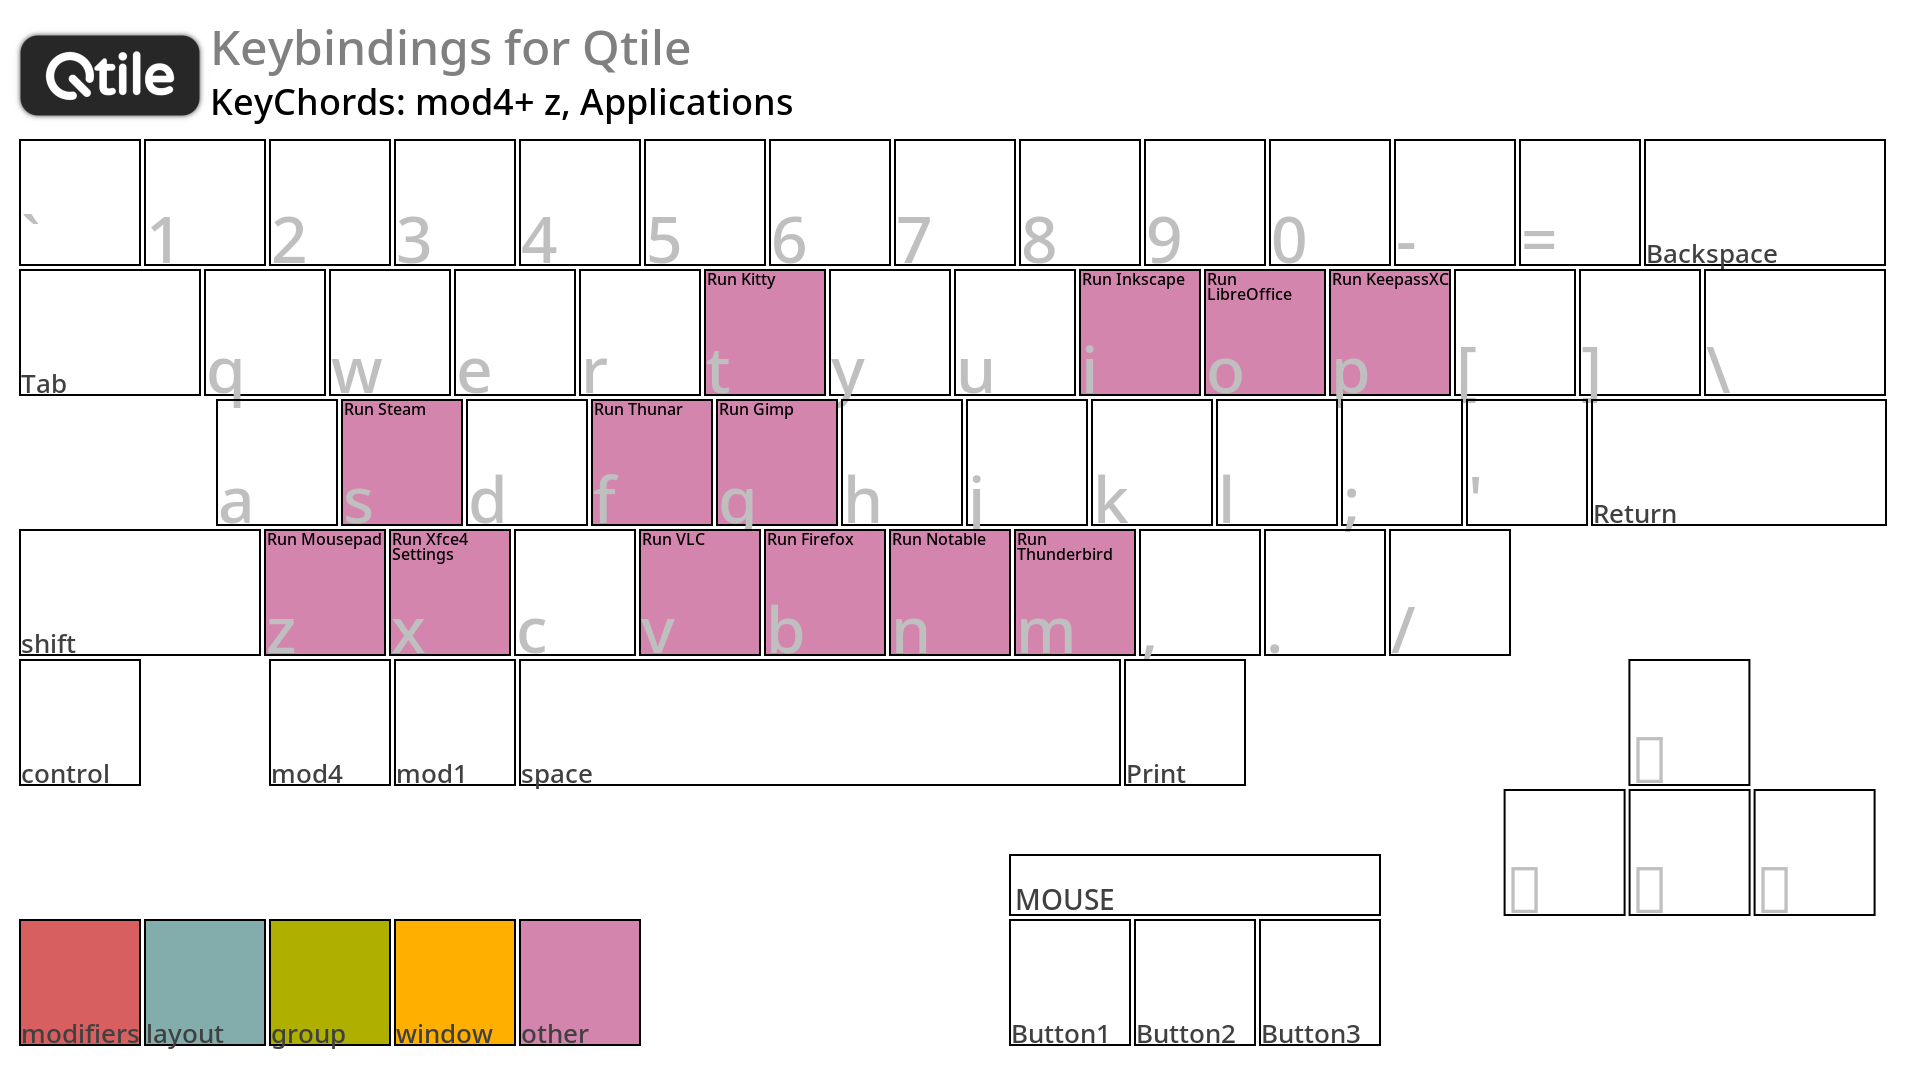
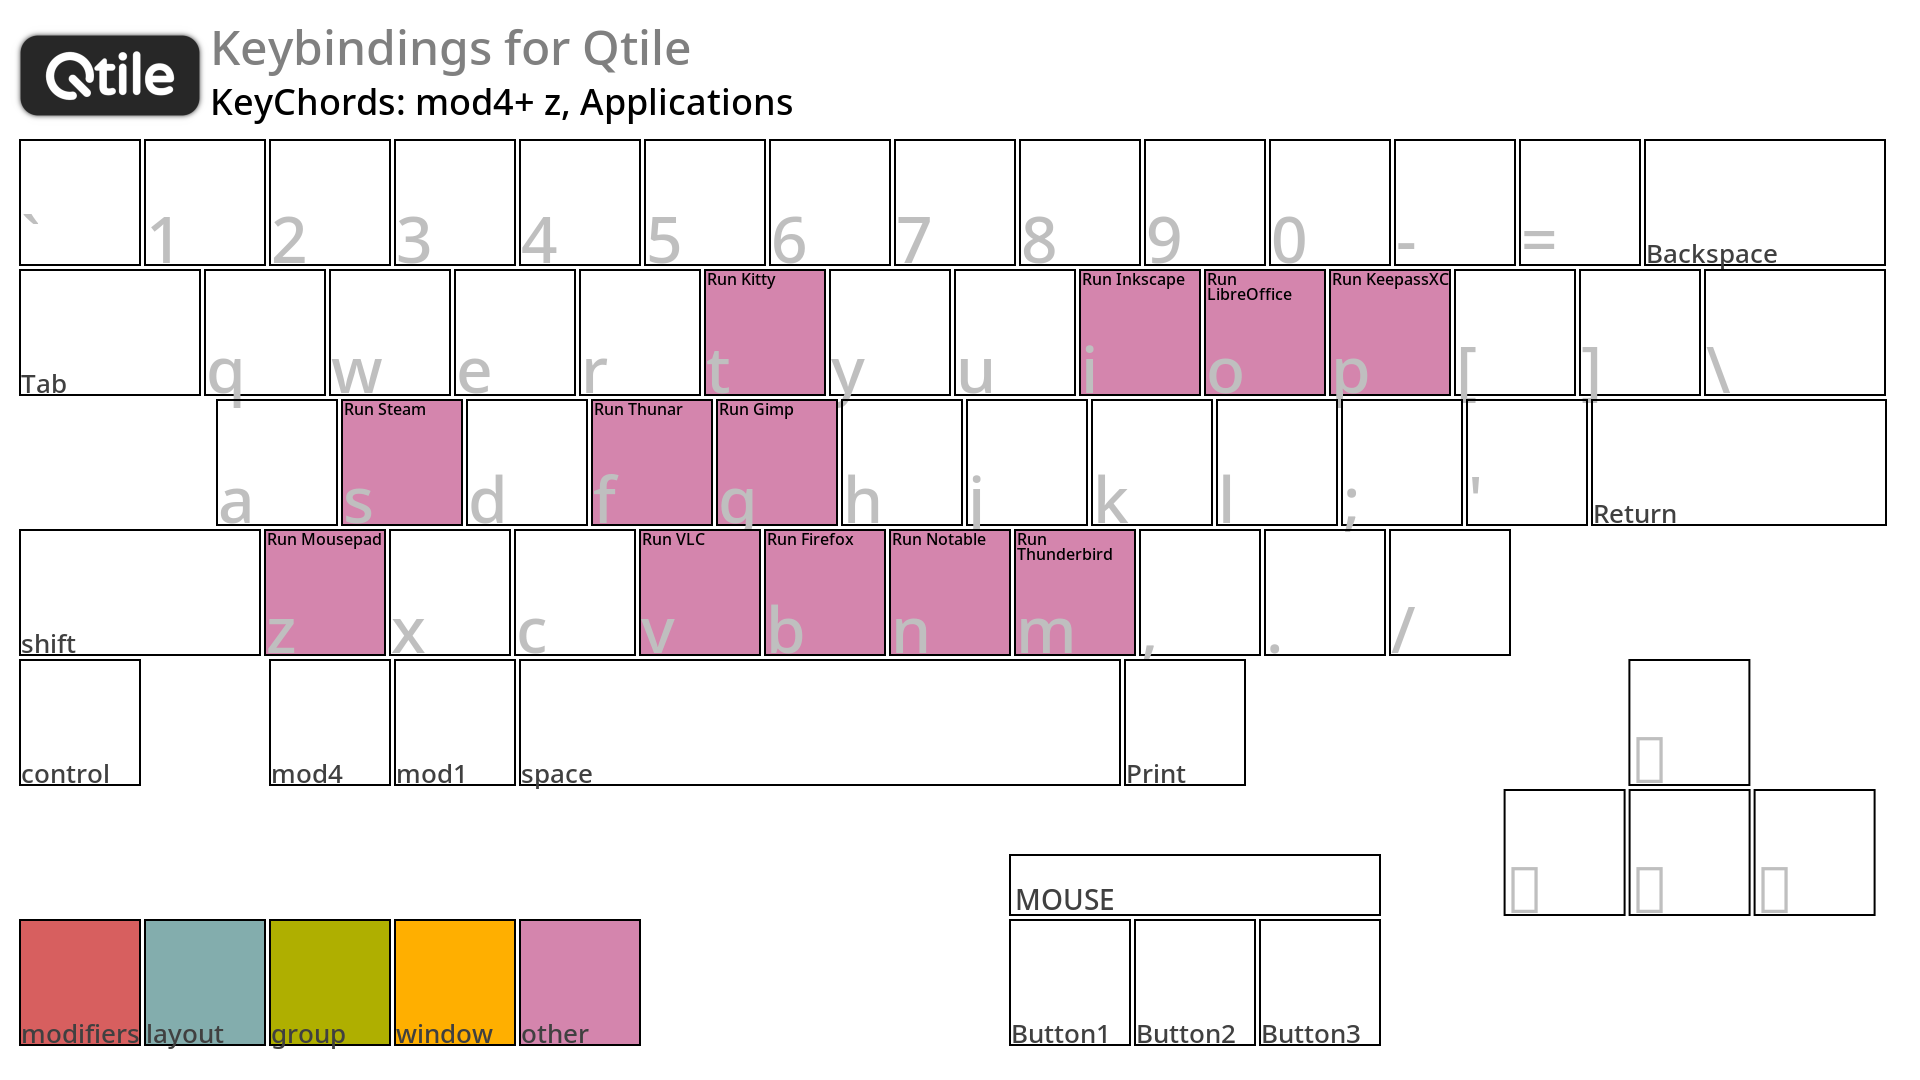
Steps to remove qtile-extras, step 3/4 and 4/4: Removal of popuptoolkit and qtile-extras LIKELY complete?

Changed region(s): [[0.1875, 0.4889, 0.2812, 0.6111]]

diff --git a/qtile/modules/keys.py b/qtile/modules/keys.py
@@ -5,20 +5,12 @@ Keys
 https://docs.qtile.org/en/stable/manual/config/keys.html
 """
 
-import os
-#
-from libqtile import extension
 from libqtile.lazy import lazy
 from libqtile.config import Key, KeyChord
 #
 from modules.variables import MOD4, CONTROL, SHIFT, TAB, SPACE, RETURN, UP, DOWN, LEFT, RIGHT
-# from modules.popup import show_power_menu
 from modules.functions import focus_next_floating, spawn_by_group
 from modules.dmenu_power_menu import dmenu_power_menu
-
-# TODO: This is dmenu, I'll delete this later.
-# from theme_colors import Theme_Colors
-# from modules.variables import MOD4, CONTROL, SHIFT, TAB, SPACE, RETURN, UP, DOWN, LEFT, RIGHT, font_set
 
 
 keys = [
@@ -36,8 +28,9 @@ keys = [
   # Move windows between left/right columns or move up/down in current stack.
   # Moving out of range in Columns layout will create new column.
 
-  # INFO: .config/qtile · Derek Taylor / Dotfiles · GitLab
-  # https://gitlab.com/dwt1/dotfiles/-/tree/master/.config/qtile?ref_type=heads
+  # NOTE:
+  #   .config/qtile · Derek Taylor / Dotfiles · GitLab
+  #    https://gitlab.com/dwt1/dotfiles/-/tree/master/.config/qtile?ref_type=heads
   Key([MOD4, SHIFT], 'h',
     lazy.layout.shuffle_left(),
     lazy.layout.move_left().when(layout = ['treetab']),
@@ -80,26 +73,18 @@ keys = [
   Key([MOD4, SHIFT], RIGHT, lazy.window.resize_floating(5, 0),   desc = 'Resize floating window to right, large'),
 
 
-  # Toggle between split and unsplit sides of stack.
-  # Split = all windows displayed
-  # Unsplit = 1 window displayed, like Max layout, but still with
-  # multiple stack panes
-  Key([MOD4, SHIFT], RETURN, lazy.layout.toggle_split(), desc = 'Toggle between split and unsplit sides of stack'),
-
-
   Key([MOD4], 'n', lazy.layout.normalize(),         desc = 'Reset all window sizes'),
   Key([MOD4], 'm', lazy.layout.maximize(),          desc = 'Maximize window sizes'),
   Key([MOD4], 'f', lazy.window.toggle_fullscreen(), desc = 'Toggle fullscreen on the focused window'),
   Key([MOD4], 't', lazy.window.toggle_floating(),   desc = 'Toggle floating on the focused window'),
   Key([MOD4], 'w', lazy.window.kill(),              desc = 'Kill focused window'),
-  # Key([MOD4], 'q', lazy.function(show_power_menu),  desc = 'Popup Power Menu'),
   Key([MOD4], 'b', lazy.hide_show_bar(position = 'bottom'), desc = 'Toggle bottom bar'),
 
-
-  Key([MOD4],          'r', lazy.spawncmd(),      desc = 'Spawn a command using a prompt widget'),
-  Key([MOD4, CONTROL], 'r', lazy.reload_config(), desc = 'Reload the config'),
-  # TODO: Instead of executing this immediately, perhaps introduce something like Zenity to add an intermediate step?
-  Key([MOD4, CONTROL], 'q', lazy.shutdown(),      desc = 'Logout session'),
+  # Toggle between split and unsplit sides of stack.
+  # Split = all windows displayed
+  # Unsplit = 1 window displayed, like Max layout, but still with
+  # multiple stack panes
+  Key([MOD4, SHIFT], RETURN, lazy.layout.toggle_split(), desc = 'Toggle between split and unsplit sides of stack'),
 
 
   Key([MOD4], TAB,    lazy.next_layout(),            desc = 'Toggle between layouts'),
@@ -108,19 +93,22 @@ keys = [
   Key([MOD4, SHIFT], SPACE, lazy.function(focus_next_floating), desc = 'Move floating window focus to other window'),
 
 
-  Key([MOD4], 'd', lazy.function(dmenu_power_menu),  desc = 'Run power menu'),
+  Key([MOD4],          'r', lazy.spawncmd(),      desc = 'Spawn a command using a prompt widget'),
+  # TODO:
+  #  Distinguishing between success and failure when reloading Qtile might be difficult, but should we issue a notification?
+  Key([MOD4, CONTROL], 'r', lazy.reload_config(), desc = 'Reload the config'),
+  Key([MOD4, CONTROL], 'q', lazy.shutdown(),      desc = 'Logout session'),
+  Key([MOD4],          'd', lazy.function(dmenu_power_menu), desc = 'Run power menu'),
+  Key([MOD4], 'period',     lazy.next_screen(),   desc = 'Toggle monitor, if 2 monitors'),
 
-  Key([MOD4], 'period', lazy.next_screen(), desc = 'Toggle monitor, if 2 monitors'),
 
-
-  # Key([], 'Print',
-  #   lazy.spawn("scrot -z -p 'EndeavourOS_Qtile_%Y-%m-%d_%H-%M-%S.png' -e ' mv $f ~/Pictures/'"),
-  #   desc = 'Print screen'
-  # ),
-
-  # `my_scrot_now` is `command scrot -z -p "EndeavourOS_Qtile_%Y-%m-%d_%H-%M-%S.png" -e "mv \$f ~/Pictures/"`
+  # NOTE:
+  #  This is handled by creating a function for the Fish shell.
+  #    - dotfiles_ver3_terminal/fish/functions/my_scrot_now.fish at main · dollplayer2501/dotfiles_ver3_terminal
+  #      https://github.com/dollplayer2501/dotfiles_ver3_terminal/blob/main/fish/functions/my_scrot_now.fish
+  #    - dotfiles_ver3_terminal/fish/functions/my_scrot_wait.fish at main · dollplayer2501/dotfiles_ver3_terminal
+  #      https://github.com/dollplayer2501/dotfiles_ver3_terminal/blob/main/fish/functions/my_scrot_wait.fish
   Key([MOD4, CONTROL], 'p', lazy.spawn("fish -c 'my_scrot_now'"),  desc = 'Print screen now'),
-  # `my_scrot_wait` is `command scrot -c -d 10 -z -p "EndeavourOS_Qtile_%Y-%m-%d_%H-%M-%S.png" -e "mv \$f ~/Pictures/"`
   Key([MOD4, CONTROL], 'i', lazy.spawn("fish -c 'my_scrot_wait'"), desc = 'Print screen after 10 sec'),
 
 
@@ -147,32 +135,26 @@ keys = [
       #
       Key([],      'n', lazy.spawn('notable'), desc = 'Run Notable'),
       Key([],      's', lazy.spawn('flatpak run com.valvesoftware.Steam'), desc = 'Run Steam'),
-      Key([],      'x', lazy.spawn('xfce4-settings-manager'), desc = 'Run Xfce4 Settings'),
       Key([],      'z', lazy.spawn('mousepad'), desc = 'Run Mousepad'),
     ],
     mode = False,
     name = 'Applications',
   ),
 
-
-  # KeyChord([MOD4], 'c', [
-  #     # NOTE:
-  #     #  When running anything other than Kitty, pressing Mod4+Return launches xfce4-terminal.
-  #     #  The reason is unknown.
-  #     #  Do the symptoms above mean I need to modify the "Default Applications" in Xfce4?
-  #     Key([], 'a', lazy.spawn('alacritty'),      desc = 'Run Alacritty'),
-  #     Key([], 'g', lazy.spawn('ghostty'),        desc = 'Run Ghostty'),
-  #     Key([], 'k', lazy.spawn('kitty'),          desc = 'Run Kitty'),
-  #     Key([], 'w', lazy.spawn('wezterm'),        desc = 'Run Wezterm'),
-  #     Key([], 'x', lazy.spawn('xfce4-terminal'), desc = 'Run Xfce4-terminal'),
-  #   ],
-  #   mode = False,
-  #   name = 'Terminal',
-  # ),
-
-
-  # This is test.
-  # Key([MOD4], "F2", lazy.spawn("vlc")),
+  # NOTE:
+  #   Just as a trial, for now. It might not be necessary.
+  # TODO:
+  #   It works as a Qtile feature.
+  #   However, it seems that the `Mod4 + Z` and `Mod4 + X` keybindings aren't being captured by `gen-keybinding-img`.
+  #   The `KeyChord` bindings shown below are mapped correctly.
+  KeyChord([MOD4], 'X', [
+      Key([],      'q', lazy.shutdown(),      desc = 'Logout session'),
+      Key([],      'r', lazy.reload_config(), desc = 'Reload the config'),
+      Key([],      'x', lazy.spawn('xfce4-settings-manager'), desc = 'Run Xfce4 Settings'),
+    ],
+    mode = False,
+    name = 'System',
+  ),
 ]
 
 

diff --git a/qtile/modules/dmenu_power_menu.py b/qtile/modules/dmenu_power_menu.py
@@ -14,6 +14,7 @@ def dmenu_power_menu(qtile):
   choices = [
     'Screensaver',
     'Logout',
+    'Reload Qtile',
     'Power off',
     'Reboot',
   ]
@@ -23,15 +24,15 @@ def dmenu_power_menu(qtile):
 
   result = subprocess.run(
     ['dmenu',
-      '-b',                          # Bottom
-      '-i',                          # Case-insensitive
+      '-b',
+      '-i', # Case-insensitive
       '-p', 'Power menu!',
+      '-l', str(len(choices)),
       '-fn', font_setting,
-      # '-l', str(len(choices)),
-      '-nf', Theme_Colors['Oreange'],
-      '-nb', Theme_Colors['DarkBlue_default'],
-      '-sf', Theme_Colors['DarkBlue_default'],
-      '-sb', Theme_Colors['Oreange'],
+      '-nf', Theme_Colors['DarkBlue_default'],
+      '-nb', Theme_Colors['Oreange'],
+      '-sf', Theme_Colors['Oreange'],
+      '-sb', Theme_Colors['DarkBlue_default'],
     ],
     input = '\n'.join(choices),
     text = True,
@@ -47,16 +48,22 @@ def dmenu_power_menu(qtile):
     ])
 
   elif 'Logout' == choice:
-#    qtile.core.excmd('shutdown')
     qtile.shutdown()
 
+  elif 'Reload Qtile' == choice:
+    qtile.reload_config()
+
   elif 'Power off' == choice:
+    # TODO: 2026-10-07
+    #   Add dmenu for Yes/No selection
     subprocess.run([
       'systemctl',
       'poweroff',
     ])
 
   elif 'Reboot' == choice:
+    # TODO: 2026-10-07
+    #   Add dmenu for Yes/No selection
     subprocess.run([
       'systemctl',
       'reboot',

diff --git a/qtile/modules/screens_default_config.py b/qtile/modules/screens_default_config.py
@@ -4,10 +4,7 @@
 
 from libqtile import widget
 from libqtile.lazy import lazy
-
-## from modules.popup import (
-##   show_power_menu,
-## )
+#
 from modules.dmenu_power_menu import dmenu_power_menu
 from modules.functions import (
   get_uptime,
@@ -55,17 +52,21 @@ prompt_args = {
 #
 chord_args = {
   'fontsize': 20,
-  'font': font_set['sub2'],
+  'font': font_set['main'],
 
   'foreground': Theme_Colors['DarkBlue_default'],
   'background': Theme_Colors['Oreange'],
 
-  # TODO: Pend
-  # chords_colors = {
-  #   'Applications': (
-  #     Theme_Colors['Debug'],
-  #   ),
-  # },
+  'chords_colors': {
+    'Applications': (
+      Theme_Colors['Oreange'],
+      Theme_Colors['DarkBlue_default'],
+    ),
+    'System': (
+      Theme_Colors['Red'],
+      Theme_Colors['DarkBlue_default'],
+    ),
+  },
 }
 
 #
@@ -303,7 +304,6 @@ textBox_power_menu_args = {
   'padding': 0,
 
   'mouse_callbacks': {
-#    'Button1': lazy.function(show_power_menu),
     'Button1': lazy.function(dmenu_power_menu),
   },
 

diff --git a/qtile/modules/groups.py b/qtile/modules/groups.py
@@ -25,14 +25,11 @@ from modules.layouts import (
     layout_setting_monadWide,
     layout_setting_treeTab,
     layout_setting_verticalTile,
-    # layout_setting_plasma,
   )
 from modules.functions import (
     go_to_group,
     go_to_group_and_move_window,
-    set_trans_color,
   )
-#
 from theme_colors import Theme_Colors
 
 
@@ -116,13 +113,6 @@ groups = [
     ],
     **group_defaults,
   ),
-
-  # Group(screen_affinity = 0, position = 6, name = '6', label = '6.plasma',
-  #   layouts = [
-  #     layout.Plasma(**layout_setting_plasma),
-  #   ],
-  #   **group_defaults,
-  # ),
 
   Group(screen_affinity = 0, position = 9,
     name = '9', label = '9.null',

diff --git a/qtile/modules/screens_default_setting.py b/qtile/modules/screens_default_setting.py
@@ -12,8 +12,7 @@ https://docs.qtile.org/en/latest/manual/ref/widgets.html
 
 from libqtile import bar, qtile, widget
 from libqtile.config import Screen
-from libqtile.lazy import lazy
-
+#
 from modules.variables import (
   default_wallpaper,
 )

diff --git a/qtile/README.md b/qtile/README.md
@@ -4,6 +4,12 @@
 <img src="../Chandanna_EndeavourOS_Qtile_2026-05-21_13-26-45.png" width="500">
 
 
+Oct. 7, 2026.
+
+1. Using dmenu
+1. **Not** Using qtile-extras
+
+
 Notes of special interest follow below.
 
 - [01. Workspaces and layouts](./docs/01.workspaces_and_layouts.md)
@@ -12,18 +18,26 @@ Notes of special interest follow below.
 
 ## TODO:
 
-1. ~~Complete separation of `scripts/autostart.sh`~~  
-~~`scripts/autostart..chandanna.sh` and `scripts/autostart..bacstual.sh`~~
+- [x] Complete separation of `scripts/autostart.sh`  
+`scripts/autostart..chandanna.sh` and `scripts/autostart..bacstual.sh`
 
-1. ~~Revised the description so that it does not assume the use of multiple monitors.~~  
-~~And Rename `modules/screenbar_*.py` to `built_in_widgets.py` ?~~  
+- [x] Revised the description so that it does not assume the use of multiple monitors.  
+And Rename `modules/screenbar_*.py` to `built_in_widgets.py` ?  
 **This as concluded for the time being.**
 
-1. ~~Separating the configuration and placement of built-in widgets (to avoid lengthy code)~~  
-~~**For some reason—though I haven't investigated why—the GPU load isn't displayed on the ASRock X600M-STX.**~~
+- [x] Separating the configuration and placement of built-in widgets (to avoid lengthy code)  
+**For some reason—though I haven't investigated why—the GPU load isn't displayed on the ASRock X600M-STX.**
 
-1. Long-term goal: Implement a shutdown menu (or similar) using dmenu or Rofi.  
+- [x] Long-term goal: Implement a shutdown menu (or similar) using dmenu or Rofi.  
 Decided not to use the Popup Toolkit from qtile-extras.
+    - Adoption of dmenu
+    - Likely not currently using qtile-extras.
 
-1. In connection with the above, I am re-examining whether it is necessary to use qtile-extras.
+- [x] In connection with the above, I am re-examining whether it is necessary to use qtile-extras.
+    - Likely not currently using qtile-extras.
+
+- [ ] The possibility of using dmenu in situations requiring Yes/No selections or similar choices.
+
+- [ ] It’s a pretty heavy coding task for me, but... should I revisit `gen-keybinding-img`?
+
 
